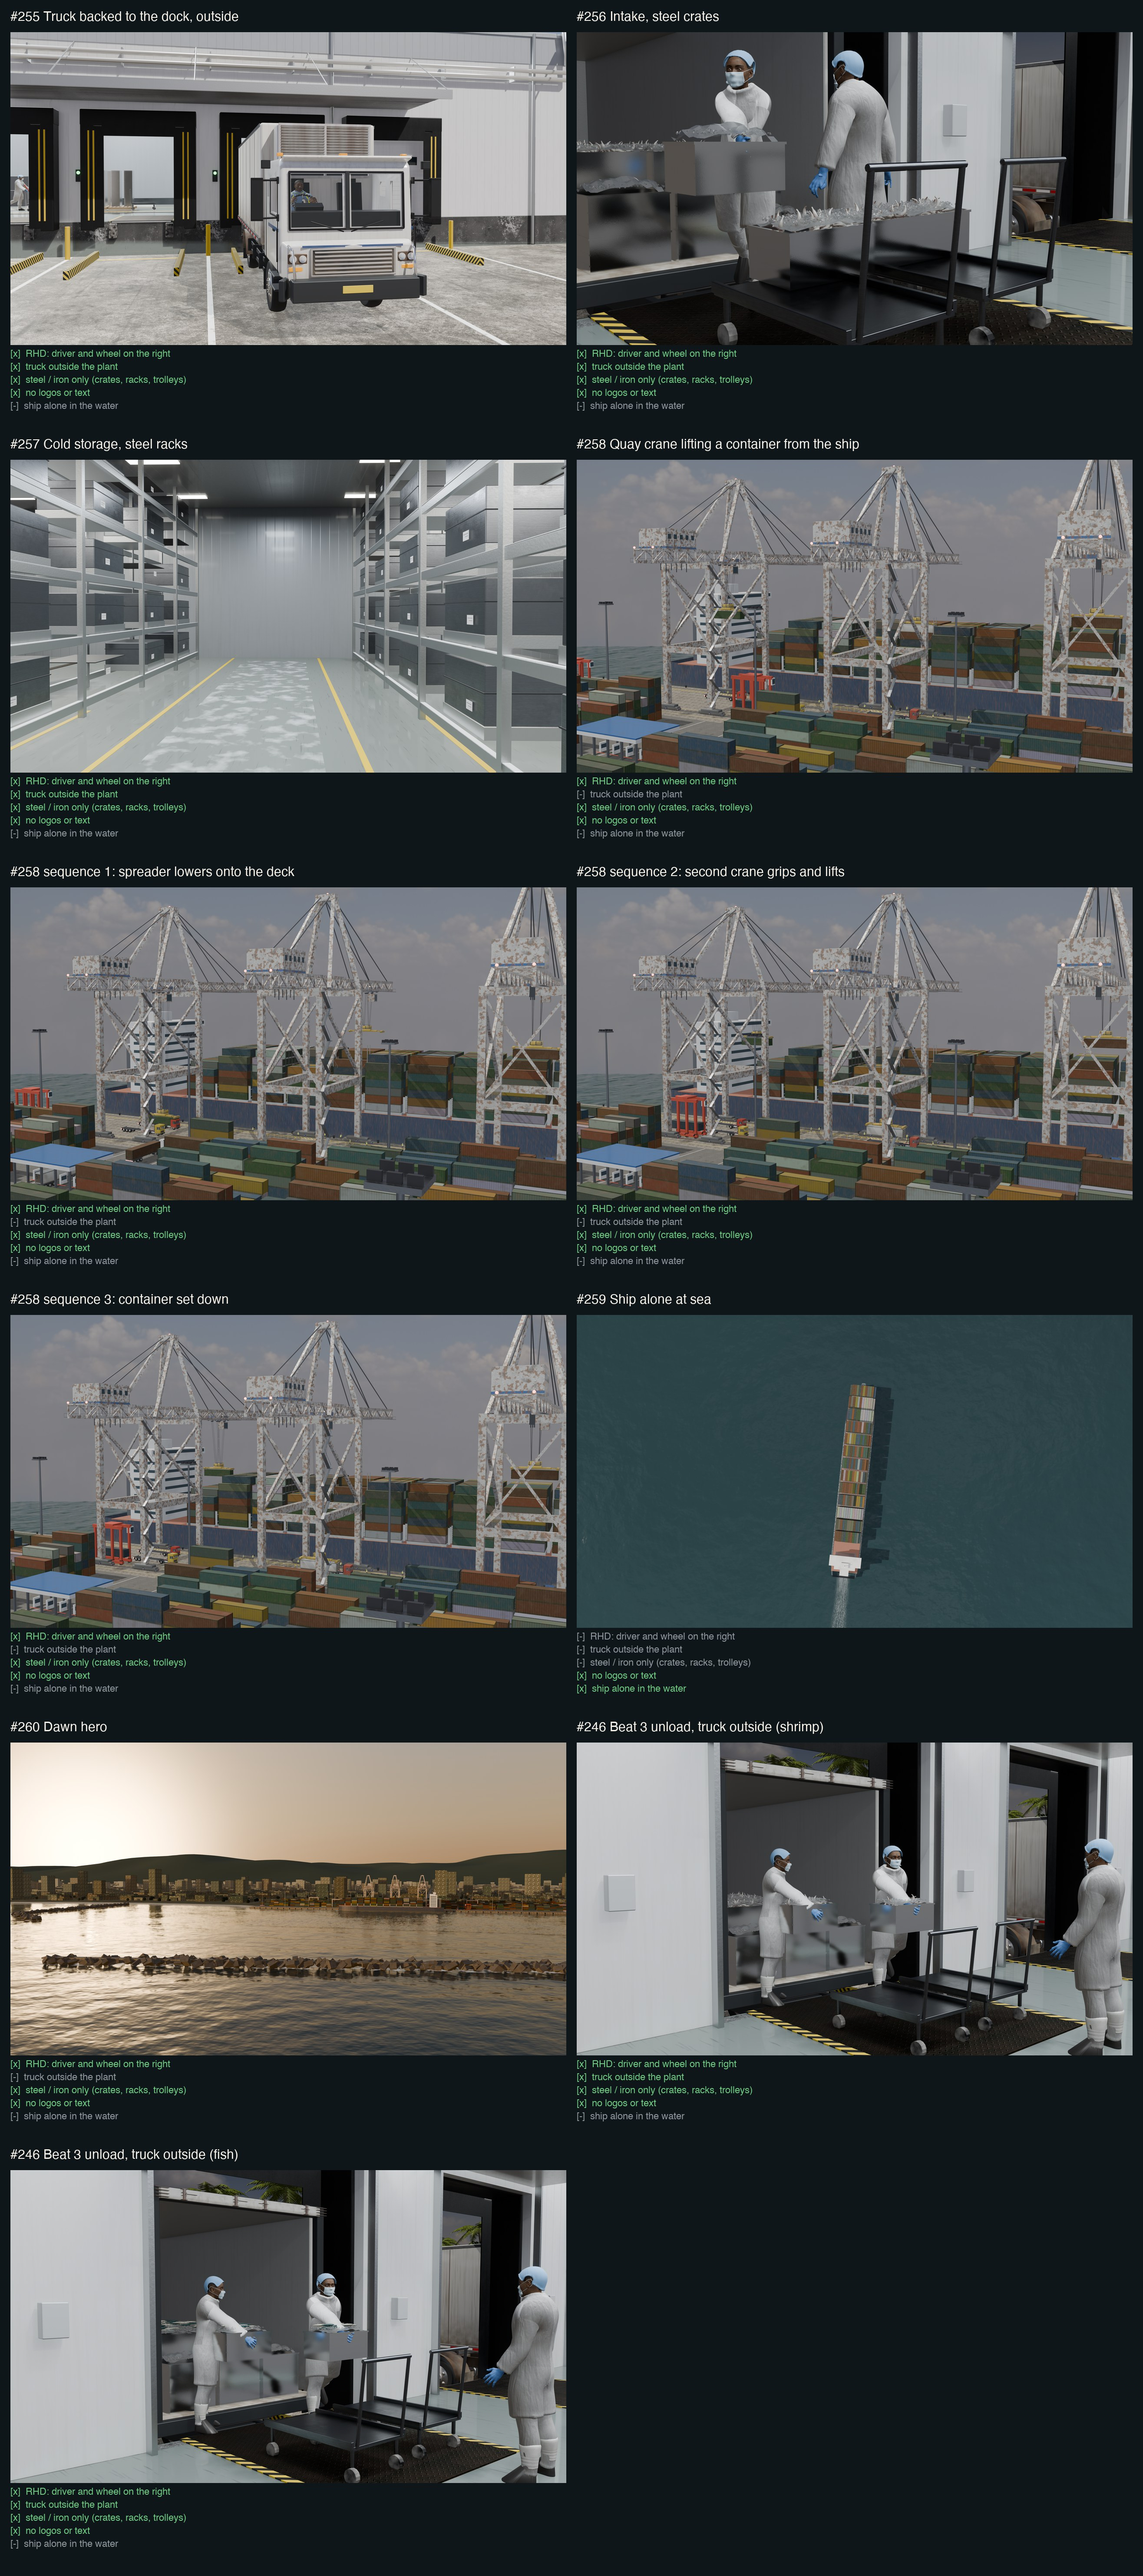
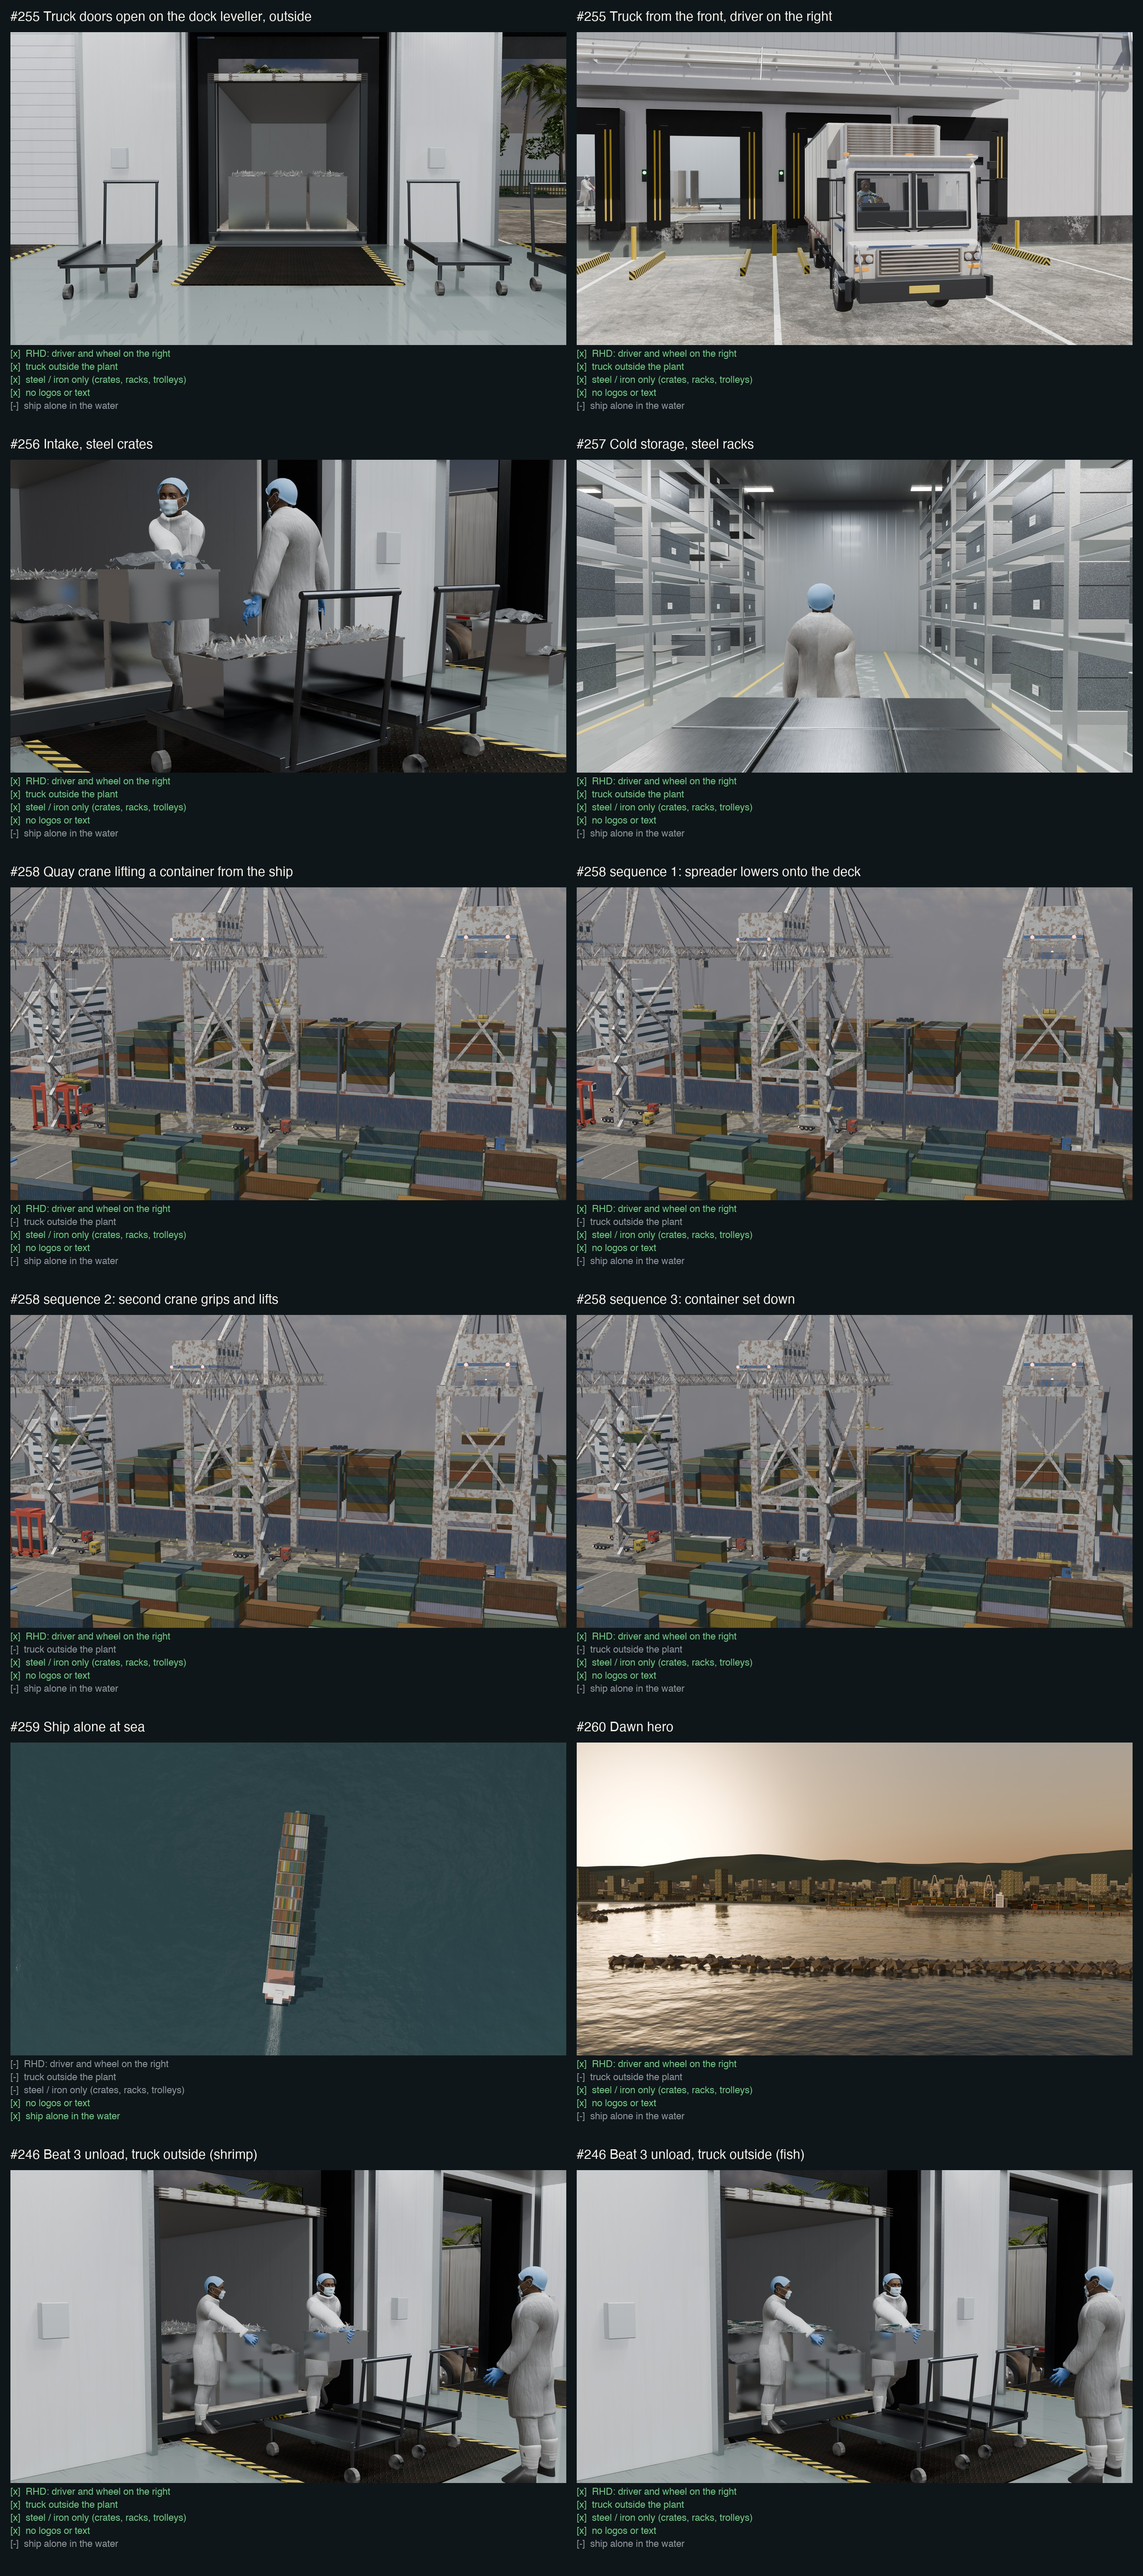
docs(review): round 3 stills, contact sheet, 960 px previews (#255)

diff --git a/docs/review/stills/CHECKLIST.md b/docs/review/stills/CHECKLIST.md
@@ -4,7 +4,8 @@ Each rule is evaluated by `blender/still_rules.py` on the still's own frame. PAS
 
 | Still | RHD: driver and wheel on the right | truck outside the plant | steel / iron only (crates, racks, trolleys) | no logos or text | ship alone in the water |
 |---|---|---|---|---|---|
-| #255 Truck backed to the dock, outside | PASS: 1 driver(s), local y -0.55 | PASS: truck body rearmost y -0.04 m (dock wall y = 0); cargo crates being unloaded are not the truck | PASS: 536 objects checked | PASS: no text objects, logo images or logo materials | n/a: not an open-sea shot |
+| #255 Truck doors open on the dock leveller, outside | PASS: 1 driver(s), local y -0.55 | PASS: truck body rearmost y -0.04 m (dock wall y = 0); cargo crates being unloaded are not the truck | PASS: 536 objects checked | PASS: no text objects, logo images or logo materials | n/a: not an open-sea shot |
+| #255 Truck from the front, driver on the right | PASS: 1 driver(s), local y -0.55 | PASS: truck body rearmost y -0.04 m (dock wall y = 0); cargo crates being unloaded are not the truck | PASS: 536 objects checked | PASS: no text objects, logo images or logo materials | n/a: not an open-sea shot |
 | #256 Intake, steel crates | PASS: 1 driver(s), local y -0.55 | PASS: truck body rearmost y -0.04 m (dock wall y = 0); cargo crates being unloaded are not the truck | PASS: 536 objects checked | PASS: no text objects, logo images or logo materials | n/a: not an open-sea shot |
 | #257 Cold storage, steel racks | PASS: 1 driver(s), local y -0.55 | PASS: truck body rearmost y -0.04 m (dock wall y = 0); cargo crates being unloaded are not the truck | PASS: 531 objects checked | PASS: no text objects, logo images or logo materials | n/a: not an open-sea shot |
 | #258 Quay crane lifting a container from the ship | PASS: 11 driver(s), local y -0.55, -0.55, -0.55, -0.55 | n/a: no plant truck in this scene | PASS: 16 objects checked | PASS: no text objects, logo images or logo materials | n/a: not an open-sea shot |
